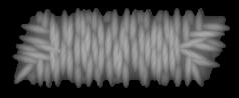
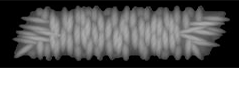
Ahad

diff --git a/be/src/utils/supplierCategory.js b/be/src/utils/supplierCategory.js
@@ -1,0 +1,102 @@
+/**
+ * Helper to calculate the internal supplier category based on the final cap design / configuration.
+ * Categories agreed with factory:
+ * 1. "Budget" (Basichue without embroidery)
+ * 2. "Budget with Embroidery" (Basichue with embroidery)
+ * 3. "Standard" (Standard package scope)
+ * 4. "Luxury" (Luksus/Luxury package scope)
+ * 5. "Premium" (Premium package scope)
+ */
+
+function isNonEmpty(val) {
+  if (!val) return false;
+  if (typeof val === 'object') {
+    const name = val.name || val.value || val.label || '';
+    val = name;
+  }
+  const str = String(val).trim().toLowerCase();
+  return (
+    str !== '' &&
+    str !== 'x' &&
+    str !== 'none' &&
+    str !== 'ingen' &&
+    str !== 'nej' &&
+    str !== 'no' &&
+    str !== 'not chosen' &&
+    str !== 'not selected' &&
+    str !== 'uden' &&
+    str !== 'false'
+  );
+}
+
+function calculateSupplierCategory(orderOrSelectedOptions) {
+  let selectedOptions = {};
+  let originalPackage = '';
+
+  if (orderOrSelectedOptions) {
+    if (orderOrSelectedOptions.selectedOptions !== undefined) {
+      originalPackage = orderOrSelectedOptions.packageName || '';
+      selectedOptions = typeof orderOrSelectedOptions.selectedOptions === 'string'
+        ? JSON.parse(orderOrSelectedOptions.selectedOptions)
+        : (orderOrSelectedOptions.selectedOptions || {});
+    } else {
+      selectedOptions = typeof orderOrSelectedOptions === 'string'
+        ? JSON.parse(orderOrSelectedOptions)
+        : (orderOrSelectedOptions || {});
+    }
+  }
+
+  selectedOptions = selectedOptions || {};
+
+  // Extract relevant features from configuration
+  const broderi = selectedOptions.BRODERI || selectedOptions.broderi || {};
+  const band = selectedOptions.UDDANNELSESBÅND || selectedOptions.uddannelsesbaand || {};
+  const skygge = selectedOptions.SKYGGE || selectedOptions.skygge || {};
+  const foer = selectedOptions.FOER || selectedOptions.foer || {};
+  const ekstra = selectedOptions.EKSTRABETRÆK || selectedOptions.ekstrabetraek || {};
+  const tilbehoer = selectedOptions.TILBEHØR || selectedOptions.tilbehoer || {};
+
+  const hasBackEmbroidery = isNonEmpty(broderi['Navne broderi'] || broderi['navne broderi'] || selectedOptions['Navne broderi']);
+  const hasFrontEmbroidery = isNonEmpty(band['Broderi foran'] || band['broderi foran'] || selectedOptions['Broderi foran']);
+  const hasSchoolEmbroidery = isNonEmpty(broderi.Skolebroderi || broderi.skolebroderi || selectedOptions.Skolebroderi);
+  const hasTopEmbroidery = isNonEmpty(broderi['Top broderi'] || broderi['top broderi']);
+  const hasLaserEngraving = isNonEmpty(skygge.Laserengravering) || isNonEmpty(skygge['Skyggegravering Line 1']);
+  const hasExtraCover = isNonEmpty(ekstra.Tilvælg) && (String(ekstra.Tilvælg).toLowerCase() === 'yes' || String(ekstra.Tilvælg).toLowerCase() === 'ja');
+  const hasCustomLiningImage = isNonEmpty(foer['Indvendigt foer billede']);
+  const hasSilkCushion = isNonEmpty(tilbehoer.Silkepude);
+
+  const totalEmbroideries = [hasBackEmbroidery, hasFrontEmbroidery, hasSchoolEmbroidery, hasTopEmbroidery].filter(Boolean).length;
+  const pkgLower = String(originalPackage).toLowerCase();
+
+  // 1. Premium scope
+  if (pkgLower.includes('premium') || hasExtraCover || (hasLaserEngraving && totalEmbroideries >= 2)) {
+    return 'Premium';
+  }
+
+  // 2. Luxury / Luksus scope
+  if (pkgLower.includes('luksus') || pkgLower.includes('luxury') || hasLaserEngraving || hasCustomLiningImage || hasSilkCushion || totalEmbroideries >= 3) {
+    return 'Luxury';
+  }
+
+  // 3. Standard scope
+  if (pkgLower.includes('standard') || (totalEmbroideries >= 2 && !pkgLower.includes('basic') && !pkgLower.includes('basichue') && !pkgLower.includes('budget'))) {
+    return 'Standard';
+  }
+
+  // 4 & 5. Basichue / Budget scope (Split into 2 categories based on embroidery)
+  const isBasicHue = pkgLower.includes('basic') || pkgLower.includes('budget') || pkgLower.includes('basichue') || pkgLower.includes('budgethue') || pkgLower === '';
+
+  if (totalEmbroideries > 0) {
+    return 'Budget with Embroidery';
+  }
+
+  if (isBasicHue) {
+    return 'Budget';
+  }
+
+  return 'Budget';
+}
+
+module.exports = {
+  calculateSupplierCategory,
+};

diff --git a/caplivebackend/src/utils/supplierCategory.js b/caplivebackend/src/utils/supplierCategory.js
@@ -1,0 +1,102 @@
+/**
+ * Helper to calculate the internal supplier category based on the final cap design / configuration.
+ * Categories agreed with factory:
+ * 1. "Budget" (Basichue without embroidery)
+ * 2. "Budget with Embroidery" (Basichue with embroidery)
+ * 3. "Standard" (Standard package scope)
+ * 4. "Luxury" (Luksus/Luxury package scope)
+ * 5. "Premium" (Premium package scope)
+ */
+
+function isNonEmpty(val) {
+  if (!val) return false;
+  if (typeof val === 'object') {
+    const name = val.name || val.value || val.label || '';
+    val = name;
+  }
+  const str = String(val).trim().toLowerCase();
+  return (
+    str !== '' &&
+    str !== 'x' &&
+    str !== 'none' &&
+    str !== 'ingen' &&
+    str !== 'nej' &&
+    str !== 'no' &&
+    str !== 'not chosen' &&
+    str !== 'not selected' &&
+    str !== 'uden' &&
+    str !== 'false'
+  );
+}
+
+function calculateSupplierCategory(orderOrSelectedOptions) {
+  let selectedOptions = {};
+  let originalPackage = '';
+
+  if (orderOrSelectedOptions) {
+    if (orderOrSelectedOptions.selectedOptions !== undefined) {
+      originalPackage = orderOrSelectedOptions.packageName || '';
+      selectedOptions = typeof orderOrSelectedOptions.selectedOptions === 'string'
+        ? JSON.parse(orderOrSelectedOptions.selectedOptions)
+        : (orderOrSelectedOptions.selectedOptions || {});
+    } else {
+      selectedOptions = typeof orderOrSelectedOptions === 'string'
+        ? JSON.parse(orderOrSelectedOptions)
+        : (orderOrSelectedOptions || {});
+    }
+  }
+
+  selectedOptions = selectedOptions || {};
+
+  // Extract relevant features from configuration
+  const broderi = selectedOptions.BRODERI || selectedOptions.broderi || {};
+  const band = selectedOptions.UDDANNELSESBÅND || selectedOptions.uddannelsesbaand || {};
+  const skygge = selectedOptions.SKYGGE || selectedOptions.skygge || {};
+  const foer = selectedOptions.FOER || selectedOptions.foer || {};
+  const ekstra = selectedOptions.EKSTRABETRÆK || selectedOptions.ekstrabetraek || {};
+  const tilbehoer = selectedOptions.TILBEHØR || selectedOptions.tilbehoer || {};
+
+  const hasBackEmbroidery = isNonEmpty(broderi['Navne broderi'] || broderi['navne broderi'] || selectedOptions['Navne broderi']);
+  const hasFrontEmbroidery = isNonEmpty(band['Broderi foran'] || band['broderi foran'] || selectedOptions['Broderi foran']);
+  const hasSchoolEmbroidery = isNonEmpty(broderi.Skolebroderi || broderi.skolebroderi || selectedOptions.Skolebroderi);
+  const hasTopEmbroidery = isNonEmpty(broderi['Top broderi'] || broderi['top broderi']);
+  const hasLaserEngraving = isNonEmpty(skygge.Laserengravering) || isNonEmpty(skygge['Skyggegravering Line 1']);
+  const hasExtraCover = isNonEmpty(ekstra.Tilvælg) && (String(ekstra.Tilvælg).toLowerCase() === 'yes' || String(ekstra.Tilvælg).toLowerCase() === 'ja');
+  const hasCustomLiningImage = isNonEmpty(foer['Indvendigt foer billede']);
+  const hasSilkCushion = isNonEmpty(tilbehoer.Silkepude);
+
+  const totalEmbroideries = [hasBackEmbroidery, hasFrontEmbroidery, hasSchoolEmbroidery, hasTopEmbroidery].filter(Boolean).length;
+  const pkgLower = String(originalPackage).toLowerCase();
+
+  // 1. Premium scope
+  if (pkgLower.includes('premium') || hasExtraCover || (hasLaserEngraving && totalEmbroideries >= 2)) {
+    return 'Premium';
+  }
+
+  // 2. Luxury / Luksus scope
+  if (pkgLower.includes('luksus') || pkgLower.includes('luxury') || hasLaserEngraving || hasCustomLiningImage || hasSilkCushion || totalEmbroideries >= 3) {
+    return 'Luxury';
+  }
+
+  // 3. Standard scope
+  if (pkgLower.includes('standard') || (totalEmbroideries >= 2 && !pkgLower.includes('basic') && !pkgLower.includes('basichue') && !pkgLower.includes('budget'))) {
+    return 'Standard';
+  }
+
+  // 4 & 5. Basichue / Budget scope (Split into 2 categories based on embroidery)
+  const isBasicHue = pkgLower.includes('basic') || pkgLower.includes('budget') || pkgLower.includes('basichue') || pkgLower.includes('budgethue') || pkgLower === '';
+
+  if (totalEmbroideries > 0) {
+    return 'Budget with Embroidery';
+  }
+
+  if (isBasicHue) {
+    return 'Budget';
+  }
+
+  return 'Budget';
+}
+
+module.exports = {
+  calculateSupplierCategory,
+};

diff --git a/admin/src/pages/OrderDetailPage.jsx b/admin/src/pages/OrderDetailPage.jsx
@@ -327,8 +327,17 @@ const OrderDetailPage = () => {
                 );
               })()}
               <div className="bg-white rounded p-3 border border-slate-200">
-                <span className="text-[10px] font-bold uppercase text-slate-500 tracking-widest block mb-1">Tier</span>
+                <span className="text-[10px] font-bold uppercase text-slate-500 tracking-widest block mb-1">Customer Tier</span>
                 <p className="font-bold text-sm text-slate-800">{order.packageName || 'Standard Issue'}</p>
+              </div>
+
+              <div className="bg-gradient-to-r from-indigo-50 to-blue-50 rounded p-3 border border-indigo-200">
+                <span className="text-[10px] font-bold uppercase text-indigo-700 tracking-widest block mb-1 flex items-center gap-1">
+                  <Tag className="h-3 w-3 text-indigo-600" /> Supplier Category (Factory)
+                </span>
+                <span className="inline-flex items-center px-2.5 py-1 rounded-md text-xs font-bold bg-indigo-600 text-white shadow-sm mt-0.5">
+                  {order.supplierCategory || 'Budget'}
+                </span>
               </div>
 
               {order.installmentDetails && order.installmentDetails.installments && (

diff --git a/caplivedashboard/src/pages/OrderDetailPage.jsx b/caplivedashboard/src/pages/OrderDetailPage.jsx
@@ -327,8 +327,17 @@ const OrderDetailPage = () => {
                 );
               })()}
               <div className="bg-white rounded p-3 border border-slate-200">
-                <span className="text-[10px] font-bold uppercase text-slate-500 tracking-widest block mb-1">Tier</span>
+                <span className="text-[10px] font-bold uppercase text-slate-500 tracking-widest block mb-1">Customer Tier</span>
                 <p className="font-bold text-sm text-slate-800">{order.packageName || 'Standard Issue'}</p>
+              </div>
+
+              <div className="bg-gradient-to-r from-indigo-50 to-blue-50 rounded p-3 border border-indigo-200">
+                <span className="text-[10px] font-bold uppercase text-indigo-700 tracking-widest block mb-1 flex items-center gap-1">
+                  <Tag className="h-3 w-3 text-indigo-600" /> Supplier Category (Factory)
+                </span>
+                <span className="inline-flex items-center px-2.5 py-1 rounded-md text-xs font-bold bg-indigo-600 text-white shadow-sm mt-0.5">
+                  {order.supplierCategory || 'Budget'}
+                </span>
               </div>
 
               {order.installmentDetails && order.installmentDetails.installments && (

diff --git a/admin/src/pages/ProductionFactoryPage.jsx b/admin/src/pages/ProductionFactoryPage.jsx
@@ -313,9 +313,14 @@ const ProductionFactoryPage = () => {
                       {new Date(order.createdAt).toLocaleDateString()}
                     </td>
                     <td className="px-6 py-4">
-                      <div className="flex flex-col">
+                      <div className="flex flex-col gap-1">
                         <span className="font-bold text-slate-700">{customerDetails.Skolenavn || order.program || 'N/A'}</span>
-                        <span className="text-xs text-slate-400">{order.packageName || 'Standard'}</span>
+                        <div className="flex items-center gap-1.5 flex-wrap">
+                          <span className="text-xs text-slate-400">{order.packageName || 'Standard'}</span>
+                          <span className="inline-flex items-center px-1.5 py-0.5 rounded text-[10px] font-bold bg-indigo-50 text-indigo-700 border border-indigo-200" title="Supplier Category based on final design">
+                            {order.supplierCategory || 'Budget'}
+                          </span>
+                        </div>
                       </div>
                     </td>
                     <td className="px-6 py-4">

diff --git a/caplivedashboard/src/pages/ProductionFactoryPage.jsx b/caplivedashboard/src/pages/ProductionFactoryPage.jsx
@@ -313,9 +313,14 @@ const ProductionFactoryPage = () => {
                       {new Date(order.createdAt).toLocaleDateString()}
                     </td>
                     <td className="px-6 py-4">
-                      <div className="flex flex-col">
+                      <div className="flex flex-col gap-1">
                         <span className="font-bold text-slate-700">{customerDetails.Skolenavn || order.program || 'N/A'}</span>
-                        <span className="text-xs text-slate-400">{order.packageName || 'Standard'}</span>
+                        <div className="flex items-center gap-1.5 flex-wrap">
+                          <span className="text-xs text-slate-400">{order.packageName || 'Standard'}</span>
+                          <span className="inline-flex items-center px-1.5 py-0.5 rounded text-[10px] font-bold bg-indigo-50 text-indigo-700 border border-indigo-200" title="Supplier Category based on final design">
+                            {order.supplierCategory || 'Budget'}
+                          </span>
+                        </div>
                       </div>
                     </td>
                     <td className="px-6 py-4">

diff --git a/caplivefrontend/src/utils/embroideryAlphabet.js b/caplivefrontend/src/utils/embroideryAlphabet.js
@@ -134,7 +134,7 @@ const LETTER_CONFIG = {
     '/': { folder: 'Forward-Slash', renderW: 35, renderH: 65, baselineFrac: 1.0, overlap: 4 },
     '>': { folder: 'Greater-Than', renderW: 40, renderH: 45, baselineFrac: 1.3, overlap: 4 },
     '#': { folder: 'Hash', renderW: 48, renderH: 65, baselineFrac: 1.0, overlap: 4 },
-    '-': { folder: 'Hyphen', renderW: 30, renderH: 25, baselineFrac: 1.8, overlap: 2 },
+    '-': { folder: 'Hyphen', renderW: 30, renderH: 14, baselineFrac: 2.6, overlap: 2 },
     '{': { folder: 'Left-Brace', renderW: 30, renderH: 75, baselineFrac: 0.9, overlap: 4 },
     '[': { folder: 'Left-Bracket', renderW: 25, renderH: 70, baselineFrac: 1.0, overlap: 4 },
     '(': { folder: 'Left-Parenthesis', renderW: 25, renderH: 70, baselineFrac: 0.95, overlap: 4 },

diff --git a/fe/src/utils/embroideryAlphabet.js b/fe/src/utils/embroideryAlphabet.js
@@ -132,7 +132,7 @@ const LETTER_CONFIG = {
     '/': { folder: 'Forward-Slash', renderW: 35, renderH: 65, baselineFrac: 1.0, overlap: 4 },
     '>': { folder: 'Greater-Than', renderW: 40, renderH: 45, baselineFrac: 1.3, overlap: 4 },
     '#': { folder: 'Hash', renderW: 48, renderH: 65, baselineFrac: 1.0, overlap: 4 },
-    '-': { folder: 'Hyphen', renderW: 30, renderH: 25, baselineFrac: 1.8, overlap: 2 },
+    '-': { folder: 'Hyphen', renderW: 30, renderH: 14, baselineFrac: 2.6, overlap: 2 },
     '{': { folder: 'Left-Brace', renderW: 30, renderH: 75, baselineFrac: 0.9, overlap: 4 },
     '[': { folder: 'Left-Bracket', renderW: 25, renderH: 70, baselineFrac: 1.0, overlap: 4 },
     '(': { folder: 'Left-Parenthesis', renderW: 25, renderH: 70, baselineFrac: 0.95, overlap: 4 },

diff --git a/admin/src/pages/ExcelTemplatesPage.jsx b/admin/src/pages/ExcelTemplatesPage.jsx
@@ -30,6 +30,7 @@ const STATIC_FIELD_GROUPS = [
       { label: 'Total Price', value: 'totalPrice', defaultHeader: 'Total Price' },
       { label: 'Currency (DKK)', value: 'currency', defaultHeader: 'Currency' },
       { label: 'Package Name (Standard, Luksus, Premium)', value: 'packageName', defaultHeader: 'Package' },
+      { label: 'Supplier Category (Factory Agreed: Budget, Budget with Embroidery, Standard, Luxury, Premium)', value: 'supplierCategory', defaultHeader: 'Supplier Category' },
       { label: 'Program (STX, HHX, HTX, etc.)', value: 'program', defaultHeader: 'Program' },
       { label: 'Order Status', value: 'status', defaultHeader: 'Status' },
       { label: 'Payment Status', value: 'paymentStatus', defaultHeader: 'Payment Status' },

diff --git a/caplivedashboard/src/pages/ExcelTemplatesPage.jsx b/caplivedashboard/src/pages/ExcelTemplatesPage.jsx
@@ -30,6 +30,7 @@ const STATIC_FIELD_GROUPS = [
       { label: 'Total Price', value: 'totalPrice', defaultHeader: 'Total Price' },
       { label: 'Currency (DKK)', value: 'currency', defaultHeader: 'Currency' },
       { label: 'Package Name (Standard, Luksus, Premium)', value: 'packageName', defaultHeader: 'Package' },
+      { label: 'Supplier Category (Factory Agreed: Budget, Budget with Embroidery, Standard, Luxury, Premium)', value: 'supplierCategory', defaultHeader: 'Supplier Category' },
       { label: 'Program (STX, HHX, HTX, etc.)', value: 'program', defaultHeader: 'Program' },
       { label: 'Order Status', value: 'status', defaultHeader: 'Status' },
       { label: 'Payment Status', value: 'paymentStatus', defaultHeader: 'Payment Status' },

diff --git a/be/src/utils/helpers.js b/be/src/utils/helpers.js
@@ -40,6 +40,8 @@ const extractOrderField = (order, fieldKey) => {
       ? JSON.parse(order.selectedOptions)
       : order.selectedOptions || {};
 
+const { calculateSupplierCategory } = require('./supplierCategory');
+
   const map = {
     orderId: order.id,
     orderNumber: order.orderNumber,
@@ -59,6 +61,7 @@ const extractOrderField = (order, fieldKey) => {
     totalPrice: order.totalPrice,
     currency: order.currency,
     packageName: order.packageName || '',
+    supplierCategory: order.supplierCategory || calculateSupplierCategory(order),
     program: order.program || '',
     status: order.status,
     paymentStatus: order.paymentStatus || '',

diff --git a/caplivebackend/src/utils/helpers.js b/caplivebackend/src/utils/helpers.js
@@ -40,6 +40,8 @@ const extractOrderField = (order, fieldKey) => {
       ? JSON.parse(order.selectedOptions)
       : order.selectedOptions || {};
 
+const { calculateSupplierCategory } = require('./supplierCategory');
+
   const map = {
     orderId: order.id,
     orderNumber: order.orderNumber,
@@ -59,6 +61,7 @@ const extractOrderField = (order, fieldKey) => {
     totalPrice: order.totalPrice,
     currency: order.currency,
     packageName: order.packageName || '',
+    supplierCategory: order.supplierCategory || calculateSupplierCategory(order),
     program: order.program || '',
     status: order.status,
     paymentStatus: order.paymentStatus || '',
